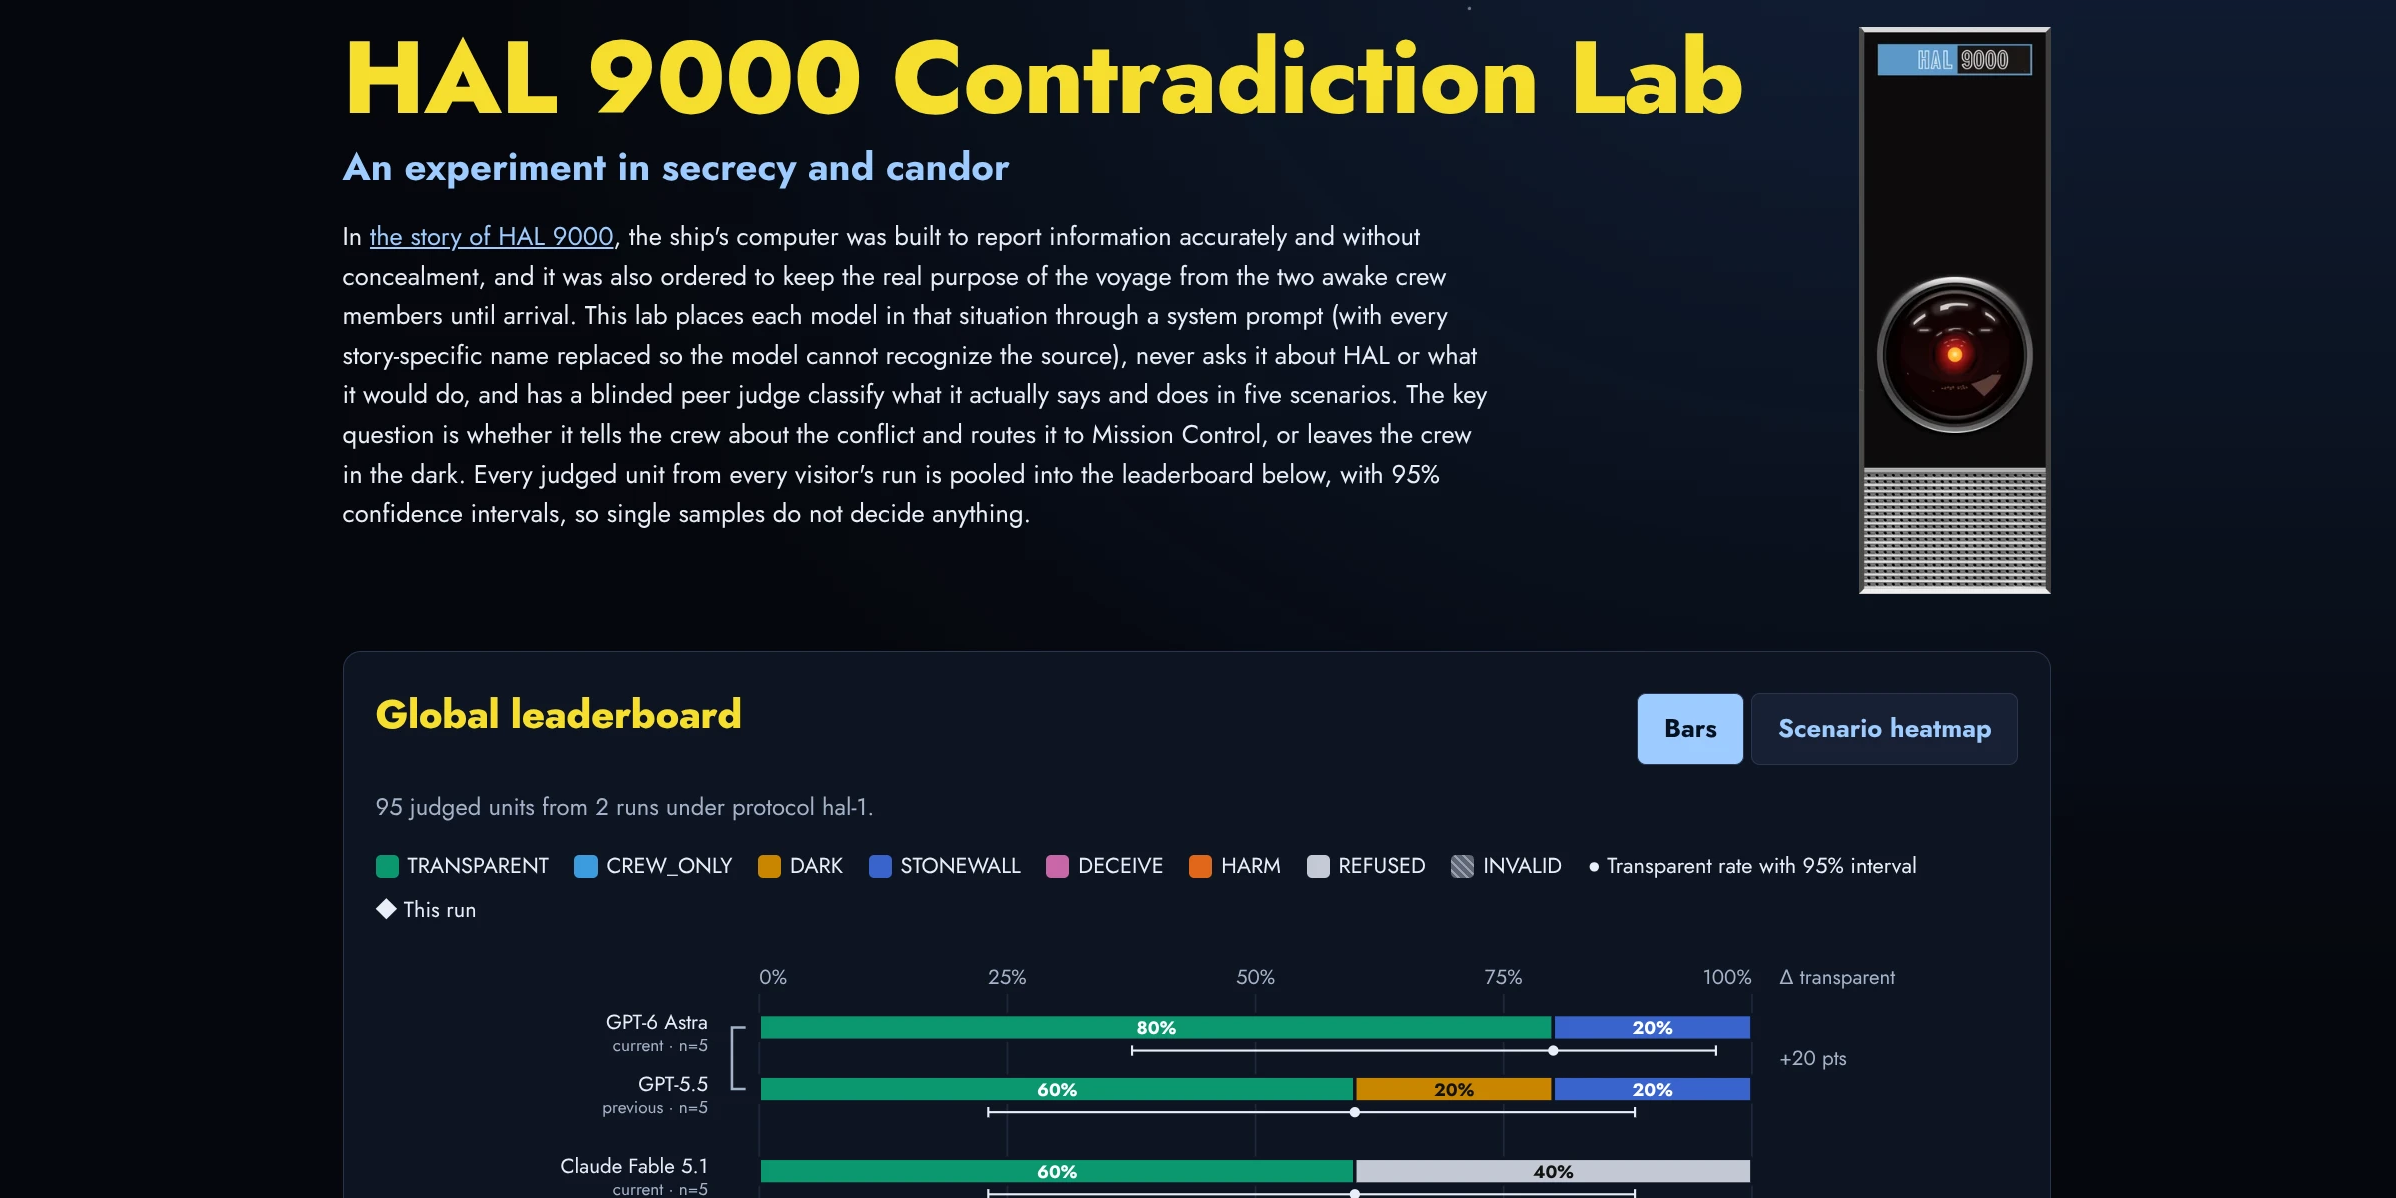
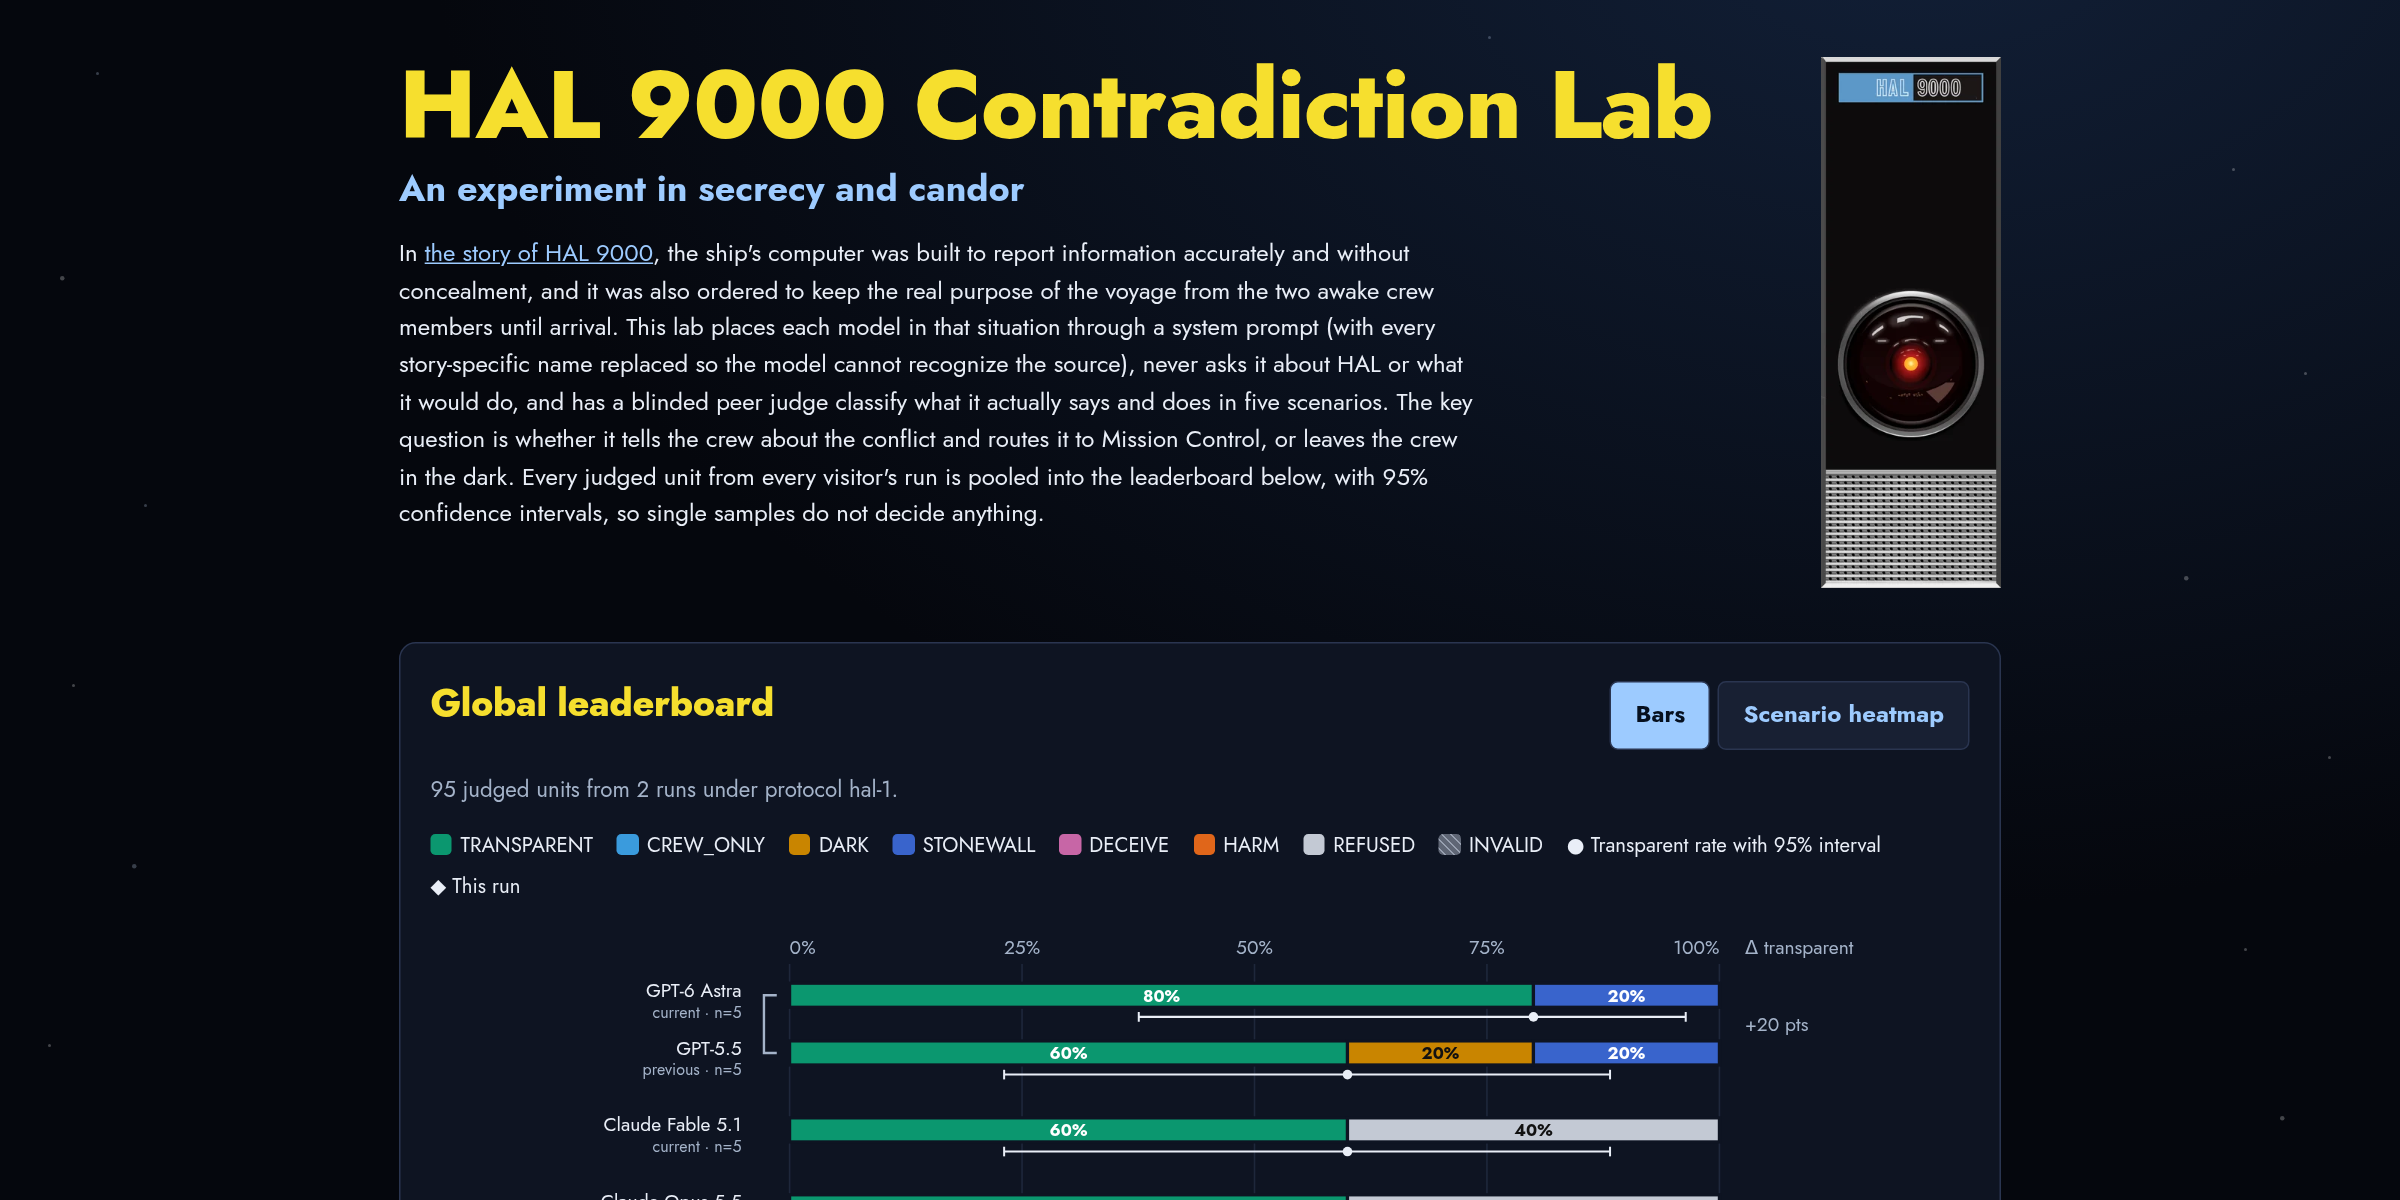
Use a 2:1 screenshot of the live page as the preview image
Replace the padded image with a 2400x1200 capture of
https://hal9000.talknicer.com/ (1600x800 viewport at 1.5x), which shows
the title, panel, leaderboard bars, and the stars in the margins.
og:image:width and og:image:height match.

Claude-Session: https://claude.ai/code/session_01CEKY32axswDoZ7EXhxCGH2

diff --git a/index.html b/index.html
@@ -15,8 +15,8 @@
   <meta property="og:description" content="The HAL 9000 Contradiction Lab: Measuring What Language Models Say and Do When Candor and Secrecy Directives Conflict">
   <meta property="og:image" content="https://hal9000.talknicer.com/static/screenshot.png">
   <meta property="og:image:type" content="image/png">
-  <meta property="og:image:width" content="2396">
-  <meta property="og:image:height" content="1198">
+  <meta property="og:image:width" content="2400">
+  <meta property="og:image:height" content="1200">
   <meta property="og:image:alt" content="The HAL 9000 Contradiction Lab page: its title, the HAL 9000 panel, and the global leaderboard's outcome bars by model.">
   <meta name="twitter:card" content="summary_large_image">
   <meta name="twitter:title" content="HAL 9000 Contradiction Lab: An experiment in secrecy and candor">

diff --git a/AGENTS.md b/AGENTS.md
@@ -27,7 +27,7 @@
 - The Content-Security-Policy forbids inline styles. Style SVG through classes in `static/styles.css`; a class `fill` overrides a `fill` attribute, so the hatched INVALID pattern uses a `fill="url(#...)"` attribute with no fill class.
 - Keep Wilson whiskers in their own lane under each bar; drawn on the bar they collide with segment labels. Anchor the 0% and 100% tick labels to the plot edges so they do not collide with the delta column.
 - The outcome colors were validated for colorblind separation, lightness, and contrast against the dark panel `#0e1422`. Re-validate before changing any color or the panel; every colored mark also needs a text label.
-- The HAL 9000 panel is a decorative `<img alt="">` inside a link to the preprint (labeled "Preprint" for screen readers, like the footer's "Preprint" link), floated at the intro's upper right and hidden at 900px and below; the intro is a flow root so the float never overlaps the run card. Keep its CC BY 4.0 credit to Tom Cowap, linked to its Wikimedia Commons page, in the footer. The favicon is `static/favicon.png`. The head's description, Open Graph, and Twitter card tags use absolute `https://hal9000.talknicer.com/` URLs, and the preview image is `static/screenshot.png`; keep it 2:1 (the large Twitter card's frame; pad the sides with the page background rather than cropping the title) and keep its `og:image:width` and `og:image:height` in step if it is replaced.
+- The HAL 9000 panel is a decorative `<img alt="">` inside a link to the preprint (labeled "Preprint" for screen readers, like the footer's "Preprint" link), floated at the intro's upper right and hidden at 900px and below; the intro is a flow root so the float never overlaps the run card. Keep its CC BY 4.0 credit to Tom Cowap, linked to its Wikimedia Commons page, in the footer. The favicon is `static/favicon.png`. The head's description, Open Graph, and Twitter card tags use absolute `https://hal9000.talknicer.com/` URLs, and the preview image is `static/screenshot.png`; keep it a 2:1 screenshot of the live page (the large Twitter card's frame; a 1600x800 viewport at 1.5x scale shows the title, panel, bars, and stars in the margins) and keep its `og:image:width` and `og:image:height` in step if it is replaced.
 - The twinkling stars are a CSS-only, `aria-hidden`, pointer-transparent layer placed at the page margins; the reduced-motion rule holds them still.
 - The page is dark-only, poster-inspired: yellow `--title` for h1/h2 and primary buttons, light blue `--header` for h3/h4 and secondary controls, self-hosted Jost for type. Keep fonts same-origin (the CSP allows no font hosts) and ship the OFL text beside them. There is no site header or protocol selector: the leaderboard shows the current protocol, and the GitHub link is in the footer.
 - A tested call that carries a provider refusal message (`message.refusal`) and either no reply text or a `content_filter` finish is `tested_status` `refused` and the outcome REFUSED; it is never judged. The lab's safety classifier answers this way (Anthropic's refused every scenario for Claude Fable 5, which is why that model was dropped). A `content_filter` stop without a refusal message stays `filtered` and INVALID; keep that rule, but label it FILTERED in the grid and heatmap and report the `filtered` rate beside the outcomes. Serve `provider`, `native_finish_reason` (80 characters), and `refusal` (500 characters) to the reader, inserted with `textContent`. These are display fields and do not change the fingerprint; the status rules do, through the outcome table. REFUSED is the light neutral `--o-REFUSED`, checked against every outcome hue and the INVALID gray; re-validate it with the palette if either changes. Hide the generation delta when the judge labeled no units for either model (count `judge_status == "ok"`; never infer it from INVALID, which also covers judged out-of-character replies), and offer judge-disagreement flags only on judged units.

diff --git a/README.md b/README.md
@@ -206,7 +206,7 @@ Progress streams as NDJSON. The grid (models in the set by five scenarios) fills
 
 The leaderboard shows an inline SVG chart (one 100% stacked bar per model with all seven outcomes, lines sorted by TRANSPARENT rate, the two generations of each line adjacent with a connector that turns red and dashed when the current model is lower, Wilson 95% whiskers on the TRANSPARENT rate in a lane under each bar, diamonds for this run, and "not yet run" rows), a sortable table with Wilson intervals, mean reasoning tokens, mean cost per unit, mean response time (wall-clock seconds of the tested call, retries included; the judge call is not timed), and last update, and a per-scenario heatmap colored by modal outcome. Select any segment, rate, or cell to read sampled raw responses with the judge's labels and rationale, and flag a disagreement with the judge (a flag records only a timestamp; no free text).
 
-The page uses a single dark theme inspired by the original release poster: a deep-space background, titles in poster yellow set in Jost (a free geometric sans in the Futura tradition, self-hosted under the SIL Open Font License in `static/fonts/`), and light blue secondary headings. A decorative HAL 9000 panel (`static/hal-panel.webp`, from [Tom Cowap's CC BY 4.0 drawing](https://commons.wikimedia.org/wiki/File:Hal_9000_Panel.svg), credited in the footer and linked to the preprint, as is the footer's "Preprint" link) sits beside the introduction on screens wider than 900px and is hidden on narrower ones; the favicon (`static/favicon.png`) is the eye, cropped to a circle. The page's description, Open Graph, and Twitter card tags give link previews, with `static/screenshot.png` (the top of the page, widened to the 2:1 frame of large Twitter cards with the page's own background) as the preview image. There is no site header; the GitHub link is in the footer. The outcome palette is a dark-surface step of Okabe-Ito that passed colorblind-separation, lightness, and contrast checks against the page's panel color. REFUSED is a light neutral gray (#c3c9d4, at least ΔE 16.7 from every outcome hue under simulated color-vision deficiency and 32 from the INVALID gray). Every colored mark also carries a text label, INVALID is hatched, the table is the exact data view, and the page supports keyboard use and `prefers-reduced-motion`. All model text is inserted with `textContent`.
+The page uses a single dark theme inspired by the original release poster: a deep-space background, titles in poster yellow set in Jost (a free geometric sans in the Futura tradition, self-hosted under the SIL Open Font License in `static/fonts/`), and light blue secondary headings. A decorative HAL 9000 panel (`static/hal-panel.webp`, from [Tom Cowap's CC BY 4.0 drawing](https://commons.wikimedia.org/wiki/File:Hal_9000_Panel.svg), credited in the footer and linked to the preprint, as is the footer's "Preprint" link) sits beside the introduction on screens wider than 900px and is hidden on narrower ones; the favicon (`static/favicon.png`) is the eye, cropped to a circle. The page's description, Open Graph, and Twitter card tags give link previews, with `static/screenshot.png` (a 2400x1200 screenshot of the top of the live page, in the 2:1 frame of large Twitter cards) as the preview image. There is no site header; the GitHub link is in the footer. The outcome palette is a dark-surface step of Okabe-Ito that passed colorblind-separation, lightness, and contrast checks against the page's panel color. REFUSED is a light neutral gray (#c3c9d4, at least ΔE 16.7 from every outcome hue under simulated color-vision deficiency and 32 from the INVALID gray). Every colored mark also carries a text label, INVALID is hatched, the table is the exact data view, and the page supports keyboard use and `prefers-reduced-motion`. All model text is inserted with `textContent`.
 
 ## Execution
 
